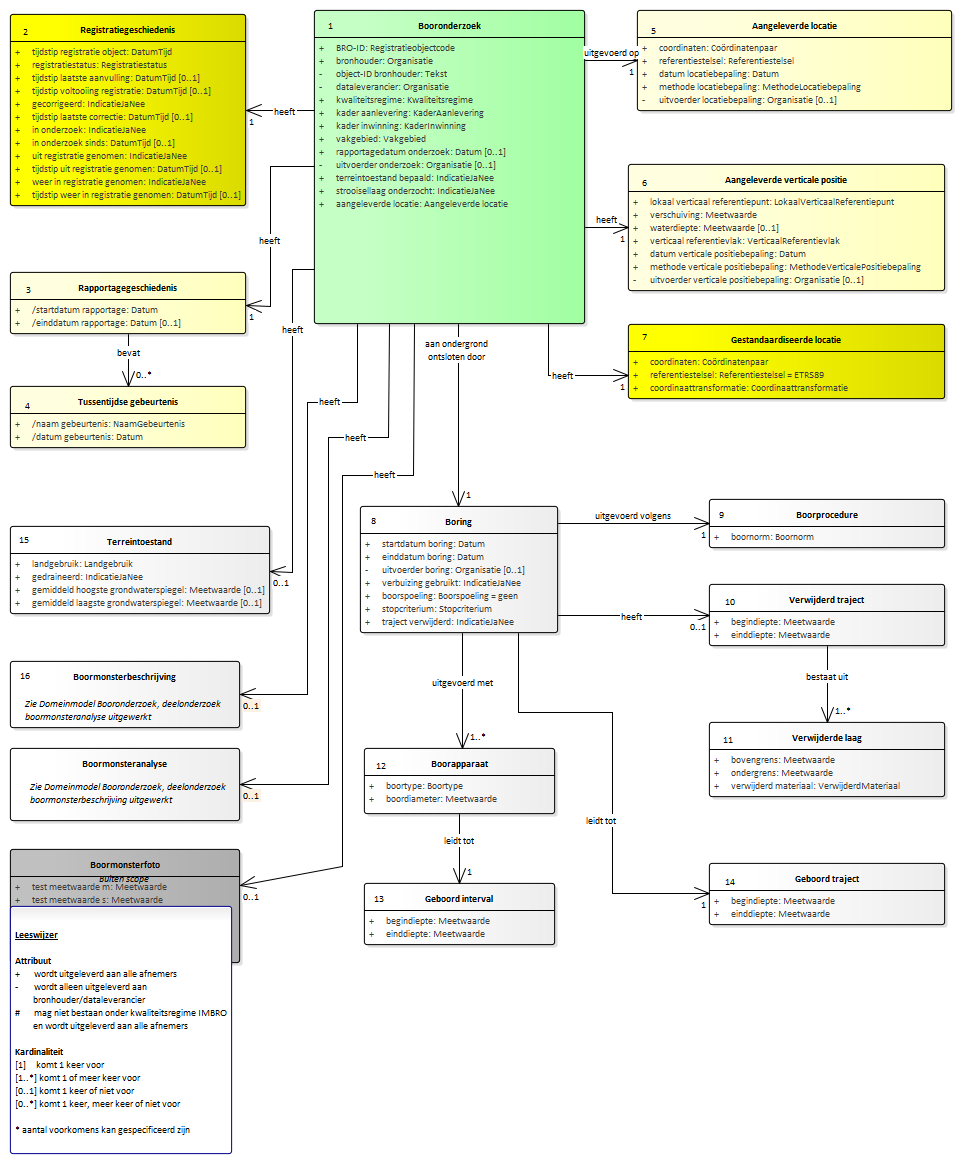
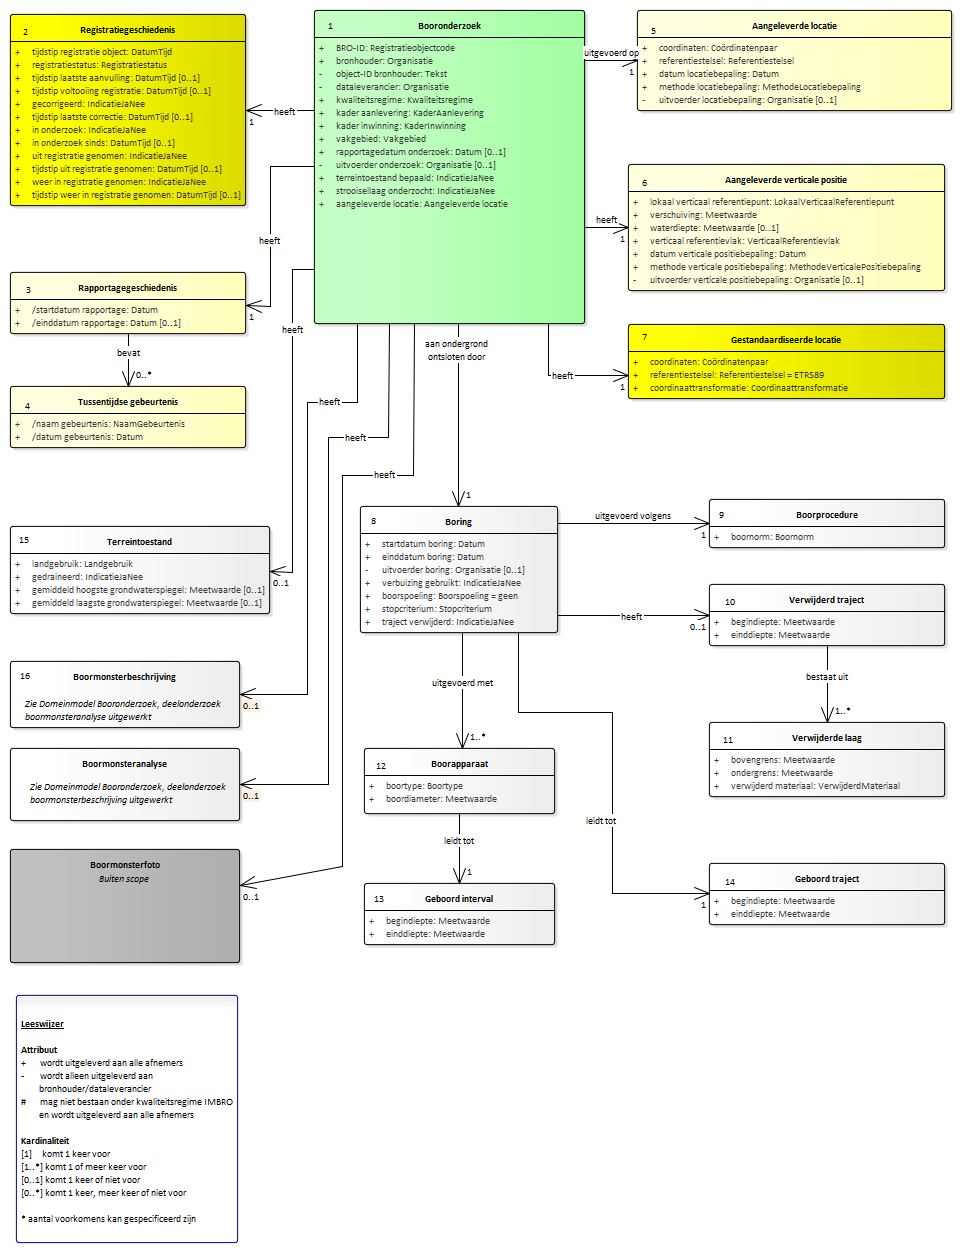
Conceptualmodel-BHR-Pconceptueel-MIM-1.9127november2019-1-20191127-20191210-085724

diff --git a/data/BHR-P-cat.msword.html b/data/BHR-P-cat.msword.html
@@ -12,8 +12,8 @@
                 </style></head>
    <body>
       <p>Conceptual model/BHR-P conceptueel - MIM/20191127</p>
-      <p>Imvertor: 1.56.1</p>
-      <p>Model release: Conceptualmodel-BHR-Pconceptueel-MIM-1.9127november2019-1-20191127-20191127-190851</p>
+      <p>Imvertor: 1.56.2</p>
+      <p>Model release: Conceptualmodel-BHR-Pconceptueel-MIM-1.9127november2019-1-20191127-20191210-085724</p>
       <hr>
       <section>
          <h1>Artikel 1 Definitie van registratieobject, entiteiten en attributen</h1>
@@ -15908,240 +15908,6 @@
                         </tr>
                      </tbody>
                   </table>
-                  <section id="detail_attribute_ModelBHRPDeel2_Boormonsterfoto_testMeetwaardeM">
-                     <h4>  test meetwaarde m</h4>
-                     
-                     <table style="width: 100%;">
-                        <colgroup style="width: 30%;"></colgroup>
-                        <colgroup style="width: 70%;"></colgroup>
-                        <tbody>
-                           <tr>
-                              <th>Type gegeven</th>
-                              <td>Attribuut van Boormonsterfoto</td>
-                           </tr>
-                           <tr>
-                              <th>Juridische status</th>
-                              <td>Authentiek</td>
-                           </tr>
-                           <tr>
-                              <th>Kardinaliteit</th>
-                              <td>1</td>
-                           </tr>
-                           <tr>
-                              <th>Domein</th>
-                              <td></td>
-                           </tr>
-                           <tr>
-                              <th>&nbsp;&nbsp;Naam</th>
-                              <td>Meetwaarde </td>
-                           </tr>
-                           <tr>
-                              <th>&nbsp;&nbsp;Type</th>
-                              <td>Getal</td>
-                           </tr>
-                           <tr>
-                              <th>&nbsp;&nbsp;Eenheid</th>
-                              <td>m (meter)</td>
-                           </tr>
-                        </tbody>
-                     </table>
-                     
-                  </section>
-                  <section id="detail_attribute_ModelBHRPDeel2_Boormonsterfoto_testMeetwaardeS">
-                     <h4>  test meetwaarde s</h4>
-                     
-                     <table style="width: 100%;">
-                        <colgroup style="width: 30%;"></colgroup>
-                        <colgroup style="width: 70%;"></colgroup>
-                        <tbody>
-                           <tr>
-                              <th>Type gegeven</th>
-                              <td>Attribuut van Boormonsterfoto</td>
-                           </tr>
-                           <tr>
-                              <th>Juridische status</th>
-                              <td>Authentiek</td>
-                           </tr>
-                           <tr>
-                              <th>Kardinaliteit</th>
-                              <td>1</td>
-                           </tr>
-                           <tr>
-                              <th>Domein</th>
-                              <td></td>
-                           </tr>
-                           <tr>
-                              <th>&nbsp;&nbsp;Naam</th>
-                              <td>Meetwaarde </td>
-                           </tr>
-                           <tr>
-                              <th>&nbsp;&nbsp;Type</th>
-                              <td>Getal</td>
-                           </tr>
-                           <tr>
-                              <th>&nbsp;&nbsp;Eenheid</th>
-                              <td>s (seconde)</td>
-                           </tr>
-                        </tbody>
-                     </table>
-                     
-                  </section>
-                  <section id="detail_attribute_ModelBHRPDeel2_Boormonsterfoto_testMeetwaardeCmDag">
-                     <h4>  test meetwaarde cm/dag</h4>
-                     
-                     <table style="width: 100%;">
-                        <colgroup style="width: 30%;"></colgroup>
-                        <colgroup style="width: 70%;"></colgroup>
-                        <tbody>
-                           <tr>
-                              <th>Type gegeven</th>
-                              <td>Attribuut van Boormonsterfoto</td>
-                           </tr>
-                           <tr>
-                              <th>Juridische status</th>
-                              <td>Authentiek</td>
-                           </tr>
-                           <tr>
-                              <th>Kardinaliteit</th>
-                              <td>1</td>
-                           </tr>
-                           <tr>
-                              <th>Domein</th>
-                              <td></td>
-                           </tr>
-                           <tr>
-                              <th>&nbsp;&nbsp;Naam</th>
-                              <td>Meetwaarde </td>
-                           </tr>
-                           <tr>
-                              <th>&nbsp;&nbsp;Type</th>
-                              <td>Getal</td>
-                           </tr>
-                           <tr>
-                              <th>&nbsp;&nbsp;Eenheid</th>
-                              <td>cm/dag (centimeter per dag)</td>
-                           </tr>
-                        </tbody>
-                     </table>
-                     
-                  </section>
-                  <section id="detail_attribute_ModelBHRPDeel2_Boormonsterfoto_testMeetwaardeG">
-                     <h4>  test meetwaarde g</h4>
-                     
-                     <table style="width: 100%;">
-                        <colgroup style="width: 30%;"></colgroup>
-                        <colgroup style="width: 70%;"></colgroup>
-                        <tbody>
-                           <tr>
-                              <th>Type gegeven</th>
-                              <td>Attribuut van Boormonsterfoto</td>
-                           </tr>
-                           <tr>
-                              <th>Juridische status</th>
-                              <td>Authentiek</td>
-                           </tr>
-                           <tr>
-                              <th>Kardinaliteit</th>
-                              <td>1</td>
-                           </tr>
-                           <tr>
-                              <th>Domein</th>
-                              <td></td>
-                           </tr>
-                           <tr>
-                              <th>&nbsp;&nbsp;Naam</th>
-                              <td>Meetwaarde </td>
-                           </tr>
-                           <tr>
-                              <th>&nbsp;&nbsp;Type</th>
-                              <td>Getal</td>
-                           </tr>
-                           <tr>
-                              <th>&nbsp;&nbsp;Eenheid</th>
-                              <td>g (gram)</td>
-                           </tr>
-                        </tbody>
-                     </table>
-                     
-                  </section>
-                  <section id="detail_attribute_ModelBHRPDeel2_Boormonsterfoto_testMeetwaardeCm3">
-                     <h4>  test meetwaarde cm3</h4>
-                     
-                     <table style="width: 100%;">
-                        <colgroup style="width: 30%;"></colgroup>
-                        <colgroup style="width: 70%;"></colgroup>
-                        <tbody>
-                           <tr>
-                              <th>Type gegeven</th>
-                              <td>Attribuut van Boormonsterfoto</td>
-                           </tr>
-                           <tr>
-                              <th>Juridische status</th>
-                              <td>Authentiek</td>
-                           </tr>
-                           <tr>
-                              <th>Kardinaliteit</th>
-                              <td>1</td>
-                           </tr>
-                           <tr>
-                              <th>Domein</th>
-                              <td></td>
-                           </tr>
-                           <tr>
-                              <th>&nbsp;&nbsp;Naam</th>
-                              <td>Meetwaarde </td>
-                           </tr>
-                           <tr>
-                              <th>&nbsp;&nbsp;Type</th>
-                              <td>Getal</td>
-                           </tr>
-                           <tr>
-                              <th>&nbsp;&nbsp;Eenheid</th>
-                              <td>cm3 (kubieke centimeter)</td>
-                           </tr>
-                        </tbody>
-                     </table>
-                     
-                  </section>
-                  <section id="detail_attribute_ModelBHRPDeel2_Boormonsterfoto_testMeetwaardeCm1">
-                     <h4>  test meetwaarde cm-1</h4>
-                     
-                     <table style="width: 100%;">
-                        <colgroup style="width: 30%;"></colgroup>
-                        <colgroup style="width: 70%;"></colgroup>
-                        <tbody>
-                           <tr>
-                              <th>Type gegeven</th>
-                              <td>Attribuut van Boormonsterfoto</td>
-                           </tr>
-                           <tr>
-                              <th>Juridische status</th>
-                              <td>Authentiek</td>
-                           </tr>
-                           <tr>
-                              <th>Kardinaliteit</th>
-                              <td>1</td>
-                           </tr>
-                           <tr>
-                              <th>Domein</th>
-                              <td></td>
-                           </tr>
-                           <tr>
-                              <th>&nbsp;&nbsp;Naam</th>
-                              <td>Meetwaarde </td>
-                           </tr>
-                           <tr>
-                              <th>&nbsp;&nbsp;Type</th>
-                              <td>Getal</td>
-                           </tr>
-                           <tr>
-                              <th>&nbsp;&nbsp;Eenheid</th>
-                              <td>cm-1 (per centimeter)</td>
-                           </tr>
-                        </tbody>
-                     </table>
-                     
-                  </section>
                </section>
             </section>
          </section>
@@ -27254,70 +27020,6 @@
                         <p>Het watergehalte is gecorrigeerd voor het gehalte aan opgeloste zouten. Het zoutgehalte
                            van het water is bepaald.
                         </p>
-                        
-                     </td>
-                  </tr>
-               </tbody>
-            </table>
-            
-         </section>
-         <section id="detail_class_ModelBHRPDeel2_Referentiestelsel">
-            <h3>  Referentiestelsel</h3>
-            
-            <table style="width: 100%;" class="list">
-               <colgroup style="width: 20%;"></colgroup>
-               <colgroup></colgroup>
-               <tbody>
-                  <tr>
-                     <td>Definitie</td>
-                     <td>
-                        
-                        <p>De lijst met de referentiestelsels waarin de coördinaten zijn gedefinieerd.</p>
-                        
-                     </td>
-                  </tr>
-               </tbody>
-            </table>
-            
-            <table style="width: 100%;" class="list">
-               <colgroup style="width: 20%;"></colgroup>
-               <colgroup style="width: 5%;"></colgroup>
-               <colgroup style="width: 5%;"></colgroup>
-               <colgroup></colgroup>
-               <tbody>
-                  <tr>
-                     <th>Waarde</th>
-                     <th>IMBRO</th>
-                     <th>IMBRO/A</th>
-                     <th>Omschrijving</th>
-                  </tr>
-                  <tr>
-                     <td>ETRS89</td>
-                     <td>✔</td>
-                     <td>✔</td>
-                     <td>
-                        
-                        <p>European Terrestrial Reference System 1989 (EPSG 4258).</p>
-                        
-                     </td>
-                  </tr>
-                  <tr>
-                     <td>RD</td>
-                     <td>✔</td>
-                     <td>✔</td>
-                     <td>
-                        
-                        <p>Rijks Driehoeksmeting – Amersfoort RD New (EPSG 28992).</p>
-                        
-                     </td>
-                  </tr>
-                  <tr>
-                     <td>WGS84</td>
-                     <td>✔</td>
-                     <td>✔</td>
-                     <td>
-                        
-                        <p>World Geodetic System 1984 (EPSG 4326).</p>
                         
                      </td>
                   </tr>
